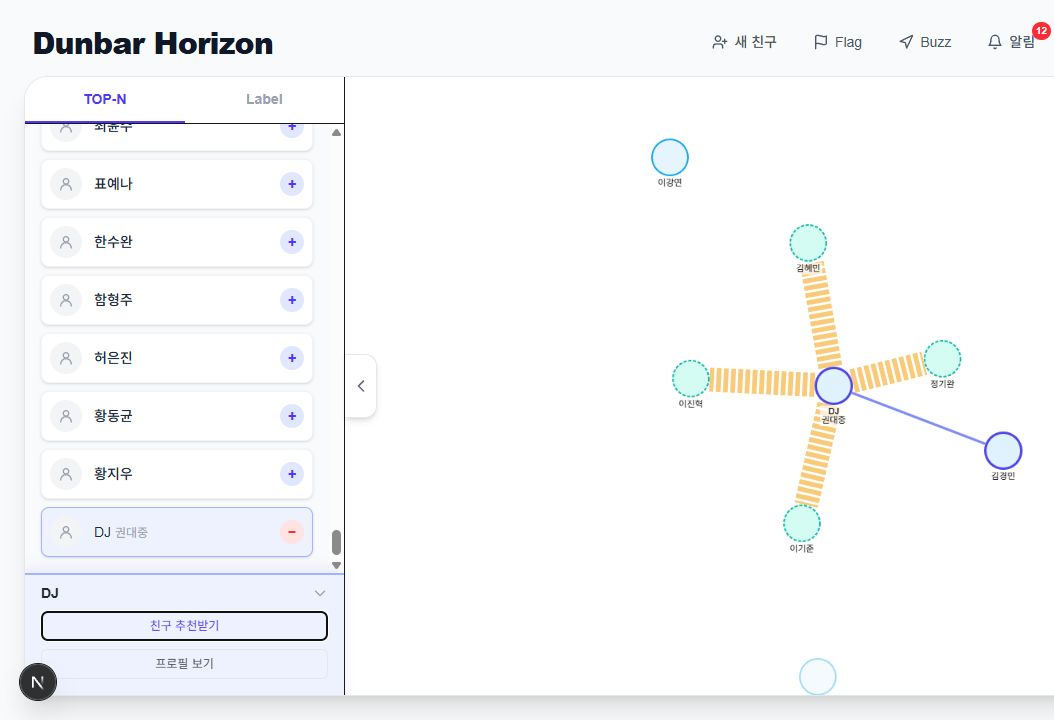
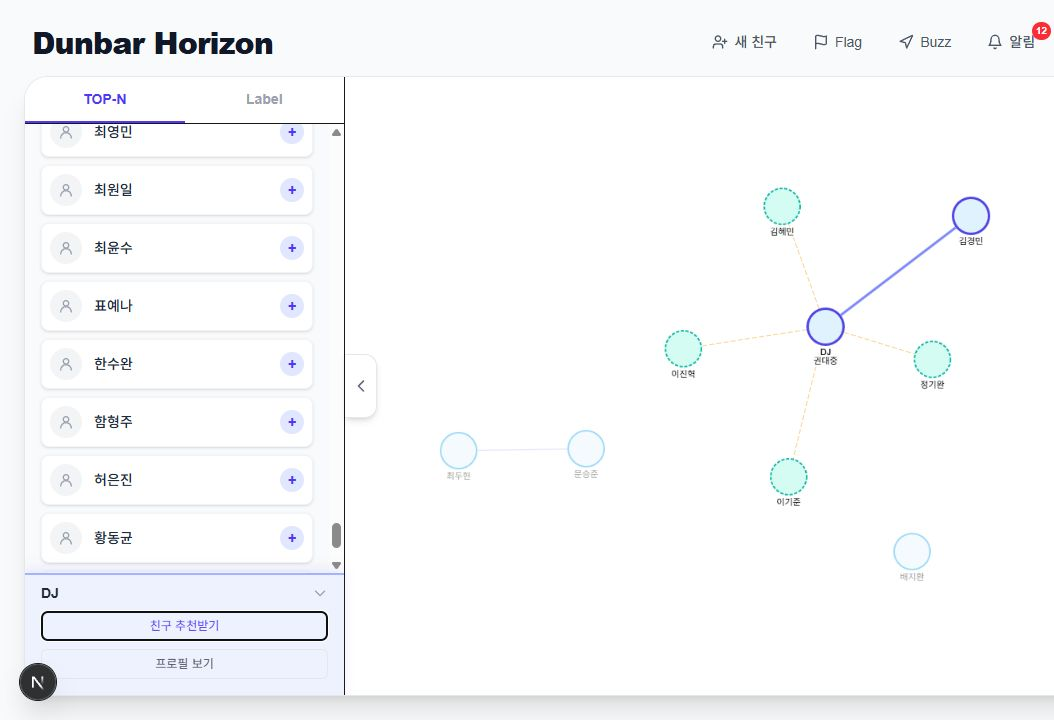
fix(task-47): 기존 추천 edge 시각 스타일을 보존한다
추천 DTO에서 intimacy가 제거된 뒤에도 기존 화면과 같은 얇은 주황색 점선을 유지하도록 suggestion edge 두께를 1px로 고정한다.

PLAN과 Task 문서에 최종 시각 기준을 기록하고 실제 백엔드 추천 화면을 다시 캡처한다.

diff --git a/src/components/socialGraph/styles.ts b/src/components/socialGraph/styles.ts
@@ -101,7 +101,7 @@ export const getGraphStylesheet = (
         "line-color": "#f59e0b",
         "line-style": "dashed",
         opacity: 0.55,
-        width: 2,
+        width: 1,
       },
     },
     {

diff --git a/harness/tasks/47-social-network-api-refactor.md b/harness/tasks/47-social-network-api-refactor.md
@@ -92,6 +92,7 @@ Social network API의 기본 경로가 `/api/v1/networks`에서 `/api/v1/network
 
 - `suggestion.intimacy`, `suggestion.mutualCount` 참조 제거
 - 추천 edge의 물리·스타일 값은 추천 DTO에 없는 intimacy를 가장하지 않도록 별도 class 기본값 사용
+- API 변경 전 화면의 주황색 점선 디자인을 유지하되, intimacy 가변 두께 대신 기존의 얇은 인상과 같은 `width: 1` 사용
 - 선택된 추천 노드의 mutual count가 필요하면 파생 상태를 명시적으로 전달
 
 `src/components/SuggestionPanel/SuggestionPanel.tsx`
@@ -184,6 +185,7 @@ fixtures의 이수환(user_id=4), 2-hop 시나리오를 사용한다.
 - 추천 DTO의 제거 필드를 삭제하고, edge 성공 후 파생된 공통 친구 수만 패널에 표시한다.
 - request sequence로 이전 추천 목록·edge 응답을 폐기한다.
 - 그래프 밖 anchor는 노드 렌더 완료를 기다린 후 추천 edge를 추가한다.
+- anchor→추천 edge는 기존 주황색 점선 디자인을 보존하고 두께를 1px로 고정했다.
 
 ### 검증
 
@@ -196,6 +198,7 @@ fixtures의 이수환(user_id=4), 2-hop 시나리오를 사용한다.
 | 그래프 밖 anchor 추천 | DJ 권대중 기준 추천 4건 정상 렌더링 |
 | 통합 edge | 정기완 선택 시 공통 친구 1명과 edge 일치 |
 | Task 46 회귀 | `ku` 라벨 멤버 15명 및 라벨 테스트 8건 통과 |
+| 추천 edge 시각 회귀 | API 변경 전 기준 화면과 같은 얇은 주황색 점선으로 재캡처 |
 
 스크린샷:
 

diff --git a/PLAN.md b/PLAN.md
@@ -73,7 +73,9 @@ deriveTargetNetworkEdges(
 
 - 추천 노드는 `id`, `nickname`, `type`만 갖는다.
 - anchor→suggestion edge에는 서버가 주지 않은 intimacy를 넣지 않는다.
-- 추천 class의 기존 전용 스타일을 유지하고 일반 friend edge 물리값으로 오인하지 않게 한다.
+- 추천 class의 기존 전용 스타일(주황색 점선, opacity 0.55)을 유지한다.
+- 제거된 intimacy 기반 가변 두께를 흉내 내지 않고, 기존 화면의 얇은 선을 보존하는 `width: 1`을 사용한다.
+- 일반 friend edge 물리값으로 오인하지 않게 한다.
 
 ### 추천 선택
 
@@ -211,6 +213,7 @@ OpenAPI 반영 후 생긴 unrelated `GetUserFlagsByRoleParams` barrel 오류와 
 - Task 47 변경 파일 ESLint 오류 0건
 - 실제 백엔드에서 SUPPORT 네트워크, DJ 권대중 anchor 추천 4건, 정기완 선택의 공통 친구 1명, `ku` 라벨 멤버 15명 확인
 - `harness/verify/verify-47-01-support-network.png`부터 `verify-47-04-label-network.png`까지 저장
+- API 변경 전 기준 화면과 대조해 anchor→추천 edge를 얇은 주황색 점선(`width: 1`)으로 보존하고 재캡처
 
 전체 저장소 기준선에는 Task 47 외부의 lint 15건(오류 3, 경고 12)과 Flag 생성 코드의 `GetUserFlagsByRoleParams` 배럴 누락 TypeScript 오류 1건이 남아 있다. Task 47 범위를 넓히지 않기 위해 수정하지 않았다.
 
